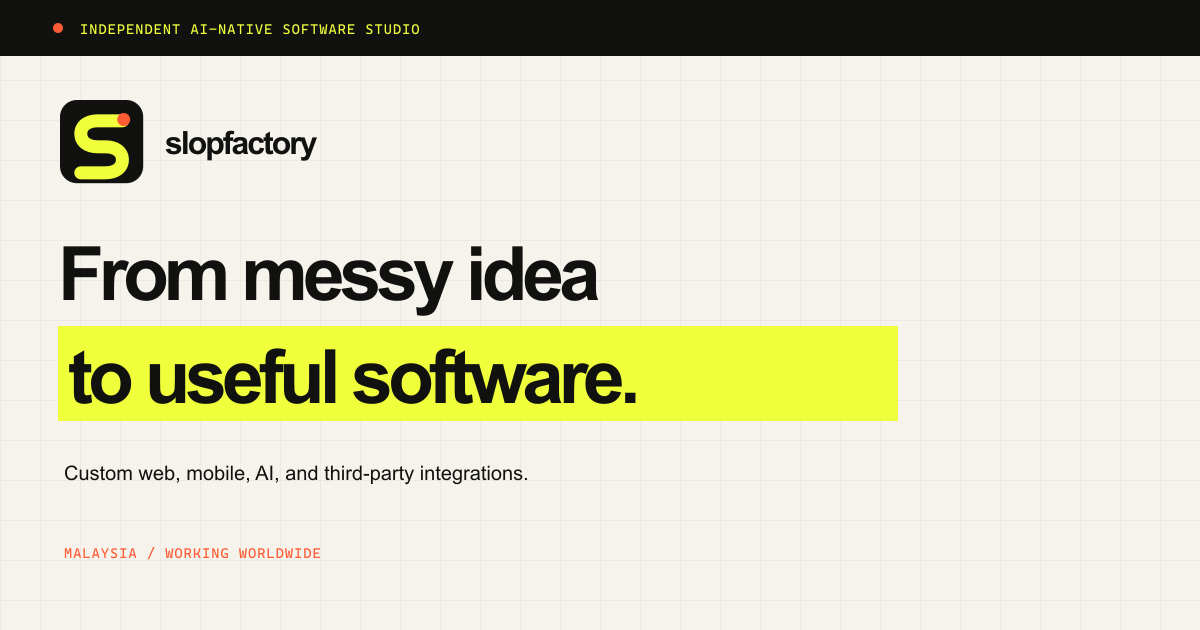
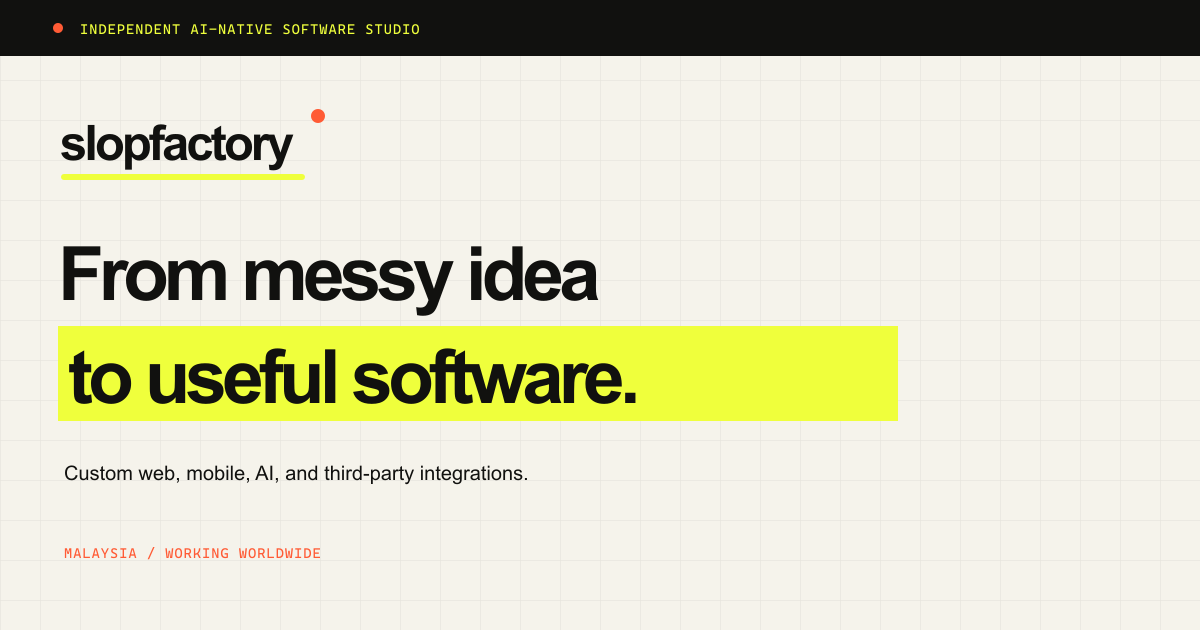
Focus brand identity on SlopFactory logotype

Changed region(s): [[0.0308, 0.1508, 0.2775, 0.3016]]

diff --git a/src/styles.css b/src/styles.css
@@ -84,19 +84,40 @@ footer {
 .logo {
   display: inline-flex;
   align-items: center;
-  gap: 9px;
+  position: relative;
+  width: max-content;
+  justify-self: start;
+  padding: 4px 2px 7px;
   font-weight: 800;
   letter-spacing: -0.075em;
 }
 
-.logo-mark {
-  display: block;
-  width: 31px;
-  height: 31px;
+.logo::before {
+  position: absolute;
+  right: 1px;
+  bottom: 2px;
+  left: 1px;
+  height: 3px;
+  content: "";
+  background: var(--acid);
+  transform: skewX(-18deg);
+}
+
+.logo::after {
+  position: absolute;
+  top: 1px;
+  right: -7px;
+  width: 5px;
+  height: 5px;
+  content: "";
+  background: var(--orange);
+  border-radius: 50%;
 }
 
 .logo-wordmark {
-  transform: translateY(-1px);
+  font-size: clamp(16px, 1.25vw, 21px);
+  font-weight: 800;
+  line-height: 1;
 }
 
 .nav-links {
@@ -784,7 +805,7 @@ footer {
 }
 
 footer p,
-footer > a,
+footer > a:not(.logo),
 footer span {
   margin: 0;
   color: var(--muted);
@@ -795,7 +816,7 @@ footer p {
   text-align: center;
 }
 
-footer > a {
+footer > a:not(.logo) {
   text-decoration: underline;
   text-underline-offset: 3px;
 }
@@ -1002,7 +1023,7 @@ footer > span {
   }
 
   footer p,
-  footer > a,
+  footer > a:not(.logo),
   footer > span {
     text-align: left;
   }

diff --git a/index.html b/index.html
@@ -62,7 +62,7 @@
             "@id": "%SITE_URL%/#organization",
             "name": "SlopFactory",
             "url": "%SITE_URL%/",
-            "logo": "%SITE_URL%/logo-mark.svg",
+            "logo": "%SITE_URL%/apple-touch-icon.png",
             "email": "mailto:[email redacted]",
             "description": "An independent AI-native software studio building custom web, mobile, and intelligent systems.",
             "foundingLocation": {

diff --git a/src/App.jsx b/src/App.jsx
@@ -69,7 +69,6 @@ const principles = [
 function Logo() {
   return (
     <a className="logo" href="#top" aria-label="SlopFactory home">
-      <img className="logo-mark" src="/logo-mark.svg" alt="" aria-hidden="true" />
       <span className="logo-wordmark">slopfactory</span>
     </a>
   );

diff --git a/README.md b/README.md
@@ -50,6 +50,5 @@ ready.
 GitHub Actions validates lint and the production build on pushes and pull
 requests. Public contact details are configured in `src/siteConfig.js`.
 
-Brand assets are available at `public/logo-mark.svg` and
-`public/logo-lockup.svg`. The wordmark remains the primary identity, with the
-consistent-width monoline S symbol used for compact placements.
+The lowercase `slopfactory` logotype is the primary identity. The compact `sf`
+favicon is reserved for browser and app-icon placements.